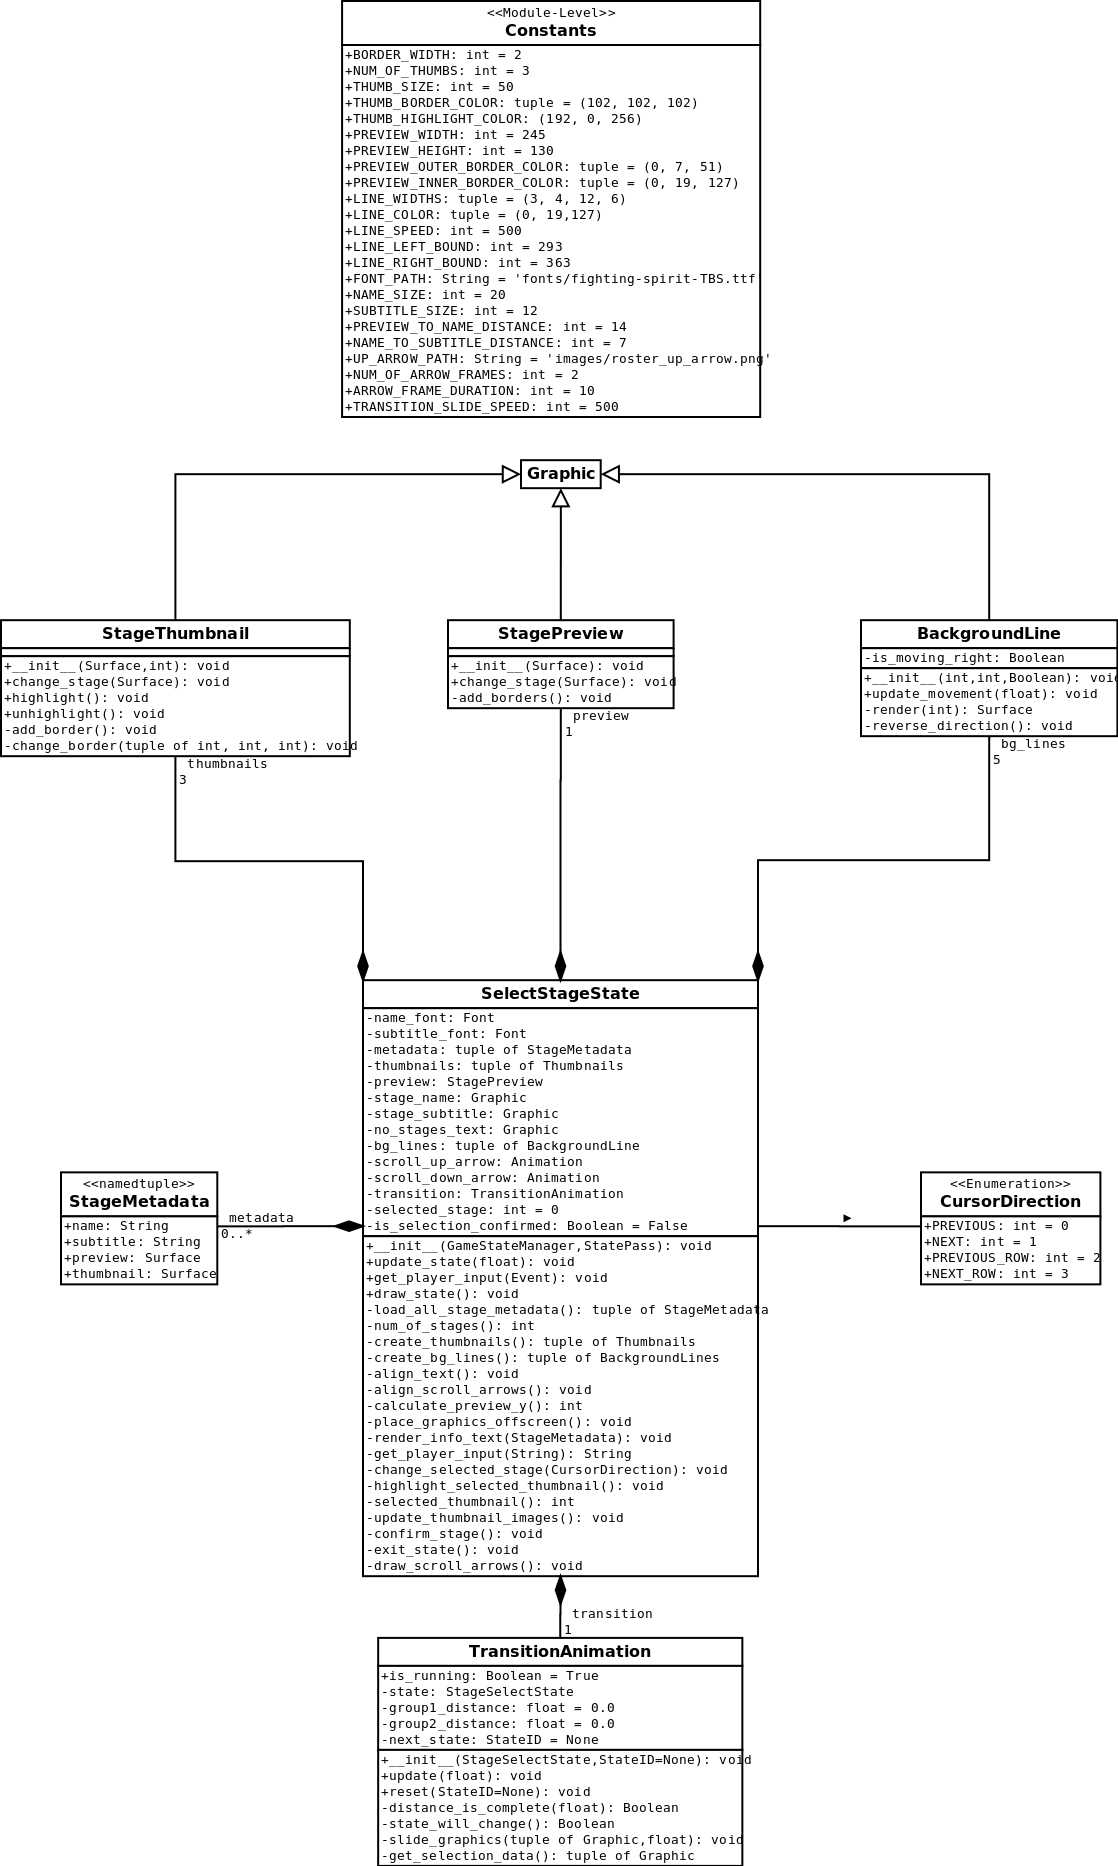
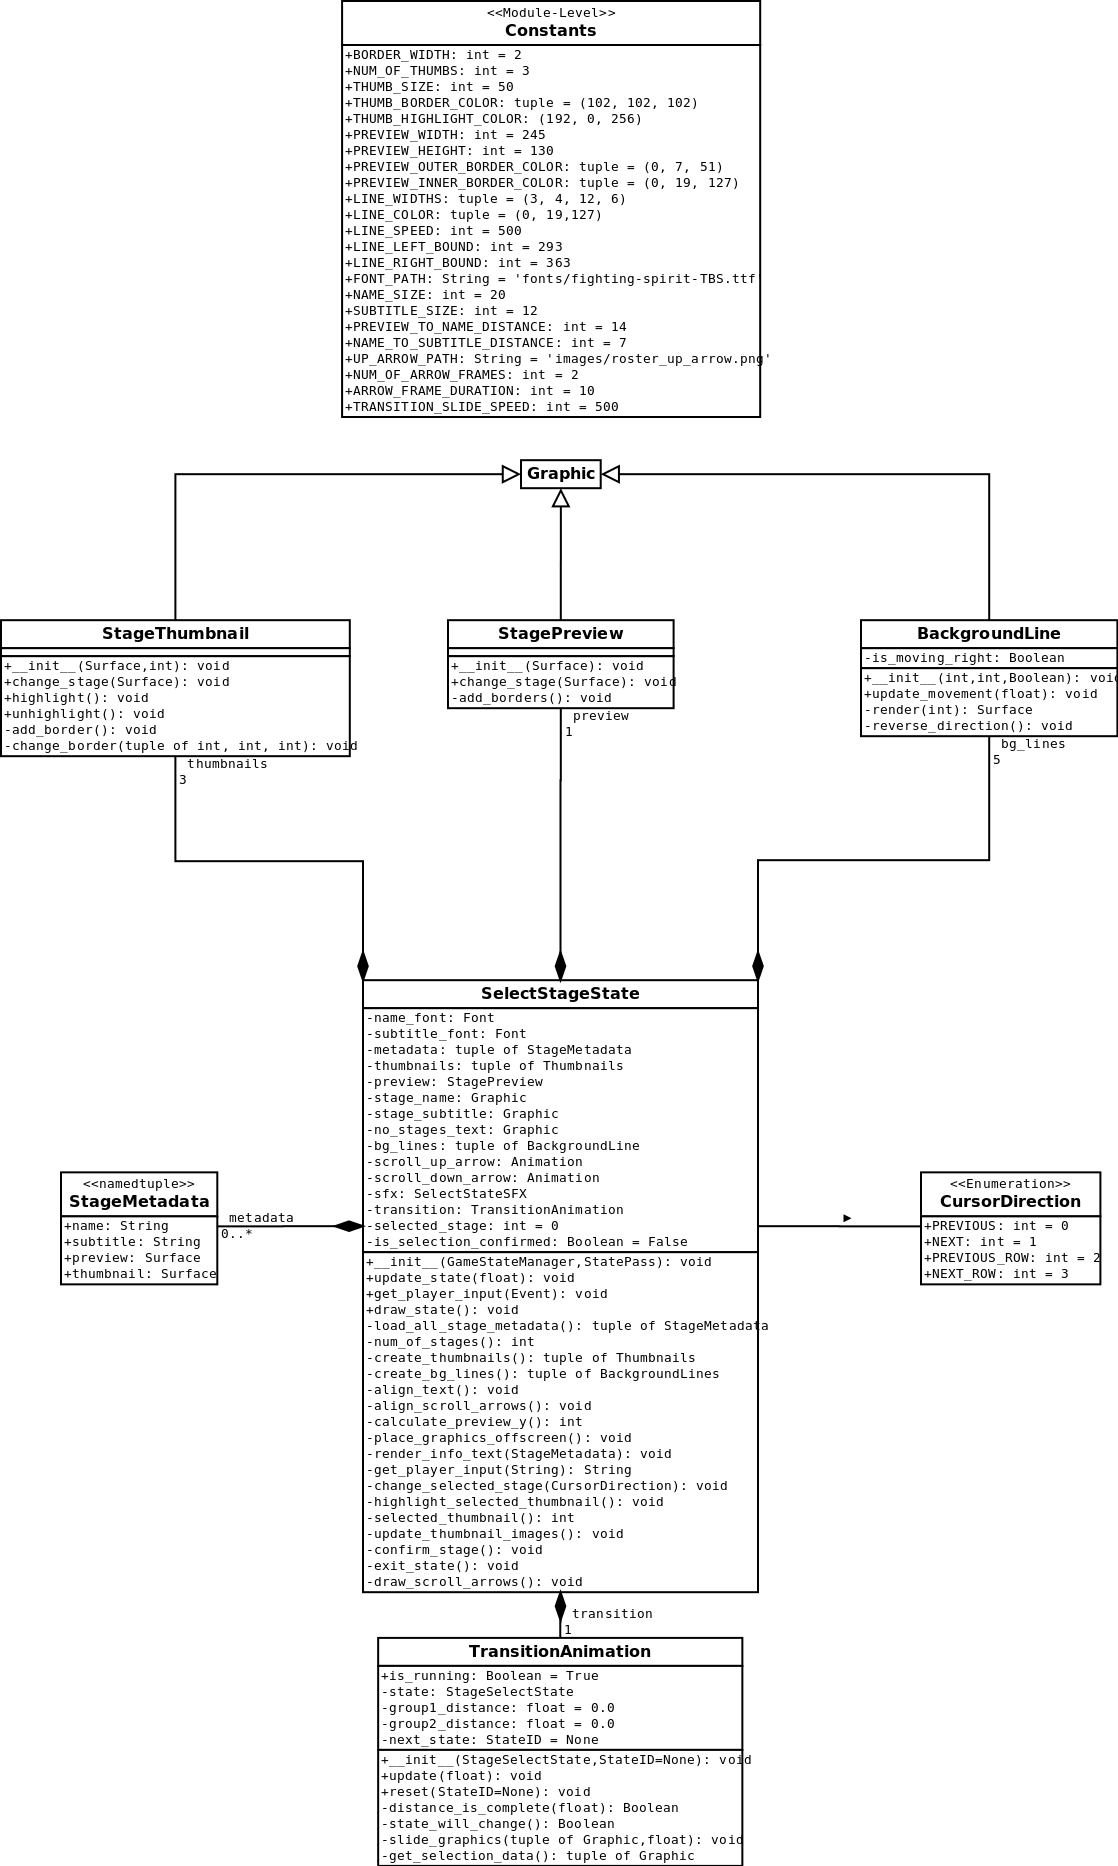
Add sound effects to Stage Select Screen

Changed region(s): [[0.3345, 0.6217, 0.6691, 0.8703]]

diff --git a/lib/game_states/stage_select_state.py b/lib/game_states/stage_select_state.py
@@ -64,6 +64,7 @@ from lib.globals import SCREEN_SIZE
 from lib.custom_data.stage_loader import load_all_stages
 from lib.game_states.state import State
 from lib.game_states.state_ids import StateIDs
+from lib.game_states.select_state_sfx import SelectStateSFX
 from pygame.surface import Surface
 from pygame.rect import Rect
 
@@ -127,6 +128,8 @@ class StageSelectState(State):
         scroll_down_arrow (Graphic): An arrow that will appear and nudge
             down to indicate that more Stages are available below the
             ones already on-screen.
+        sfx (SelectStateSFX): Contains methods for playing appropriate
+            sound clips in response to player input.
         transition (TransitionAnimation): An object that handles the
             intro and outro animations for this State.
         selected_stage (int): The index number within metadata for the
@@ -155,6 +158,7 @@ class StageSelectState(State):
         self.scroll_down_arrow = Animation.from_file(UP_ARROW_PATH, (0, 0),
             NUM_OF_ARROW_FRAMES, ARROW_FRAME_DURATION)
         self.scroll_down_arrow.flip(is_vertical=True)
+        self.sfx = SelectStateSFX(self.state_pass.ui_channel)
 
         self.metadata = self.load_all_stage_metadata()
         if self.num_of_stages() <= 0:
@@ -346,11 +350,18 @@ class StageSelectState(State):
 
         if input_name == 'start':
             if self.num_of_stages() > 0:
+                self.sfx.play_confirm()
                 self.confirm_stage()
+            else:
+                self.sfx.play_no_confirm()
         elif input_name == 'cancel':
+            self.sfx.play_cancel()
             self.exit_state()
 
         if self.num_of_stages() > 1:
+            if input_name in ['up', 'down', 'back', 'forward']:
+                self.sfx.play_scroll()
+
             if input_name == 'up':
                 self.change_selected_stage(CursorDirection.PREVIOUS)
             elif input_name == 'down':
